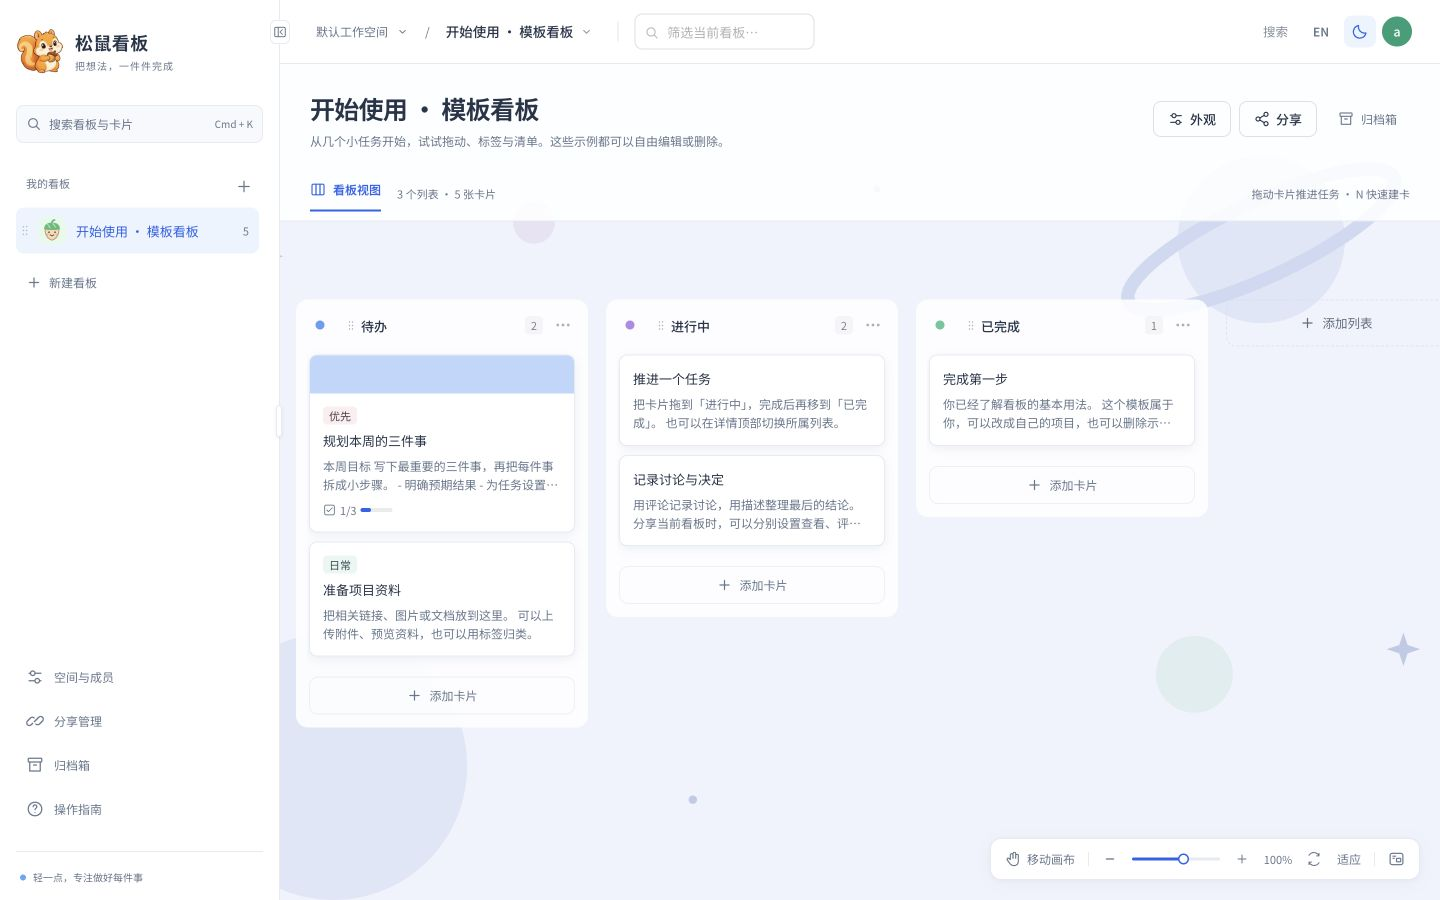
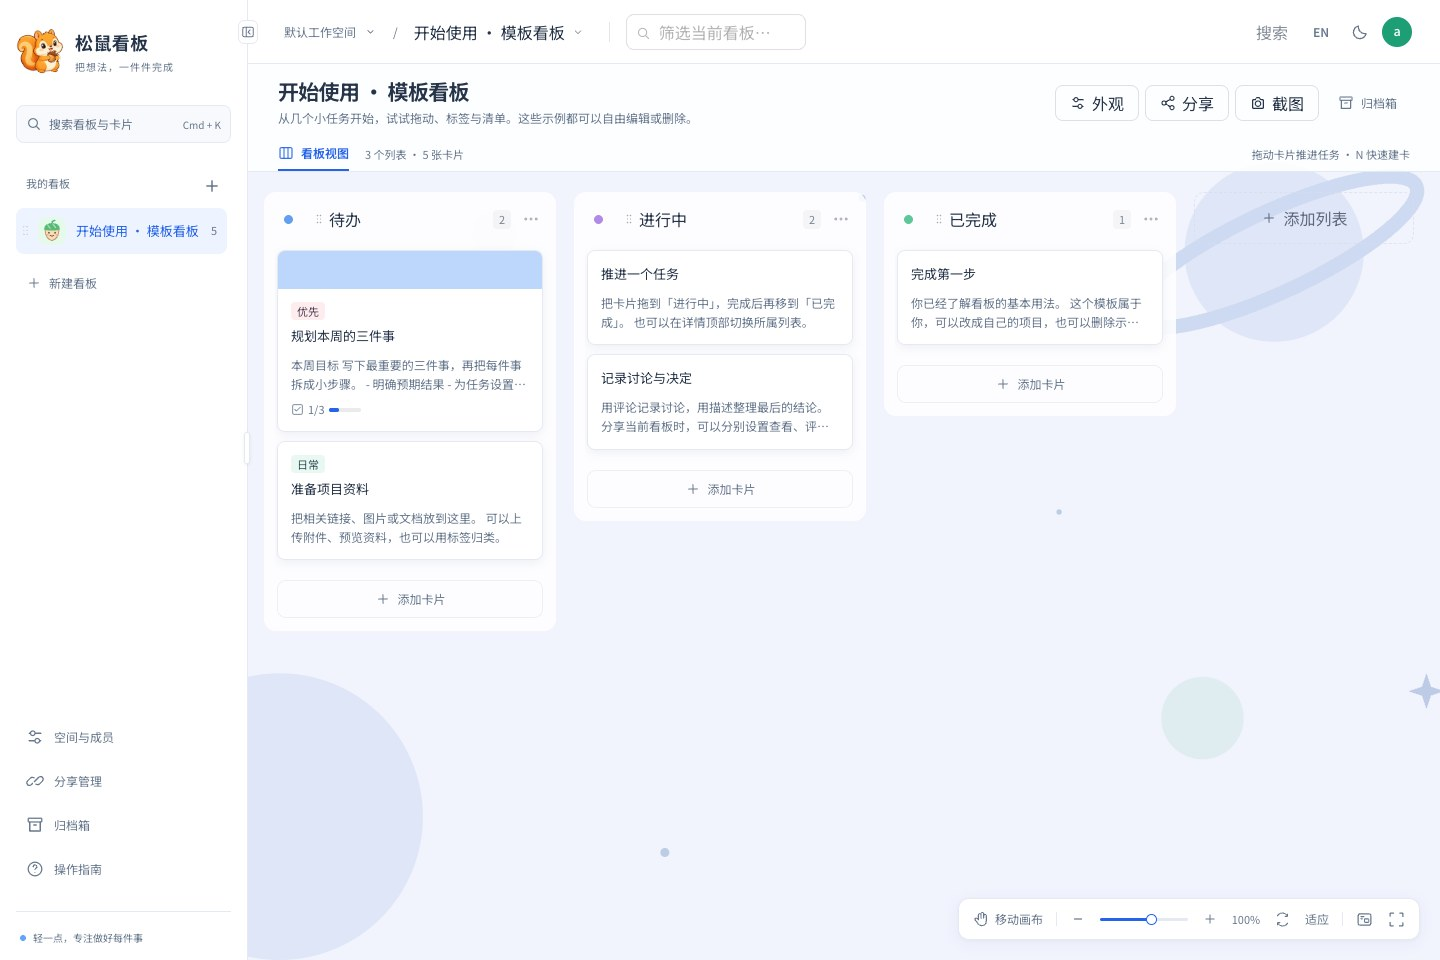
docs: refresh bilingual README screenshots from local starter board

diff --git a/README.en.md b/README.en.md
@@ -15,14 +15,20 @@ Built with React + Vite, Go and SQLite. Production runs through Docker Compose w
 - Comments, attachment previews, downloads, archiving and restoration. Browser previews support images, PDFs, audio, video and text. Office conversion is optional.
 - Independent share management with fixed short links, live content, expiration, revocation and individual collaboration switches. Guests visit one board without signing in.
 - Chinese / English UI and light / dark themes. Initial preferences follow the browser; explicit choices are remembered.
-- Board backgrounds, canvas pan, zoom and fullscreen, minimap, resizable / collapsible sidebar and keyboard shortcuts.
+- Board backgrounds, canvas pan, zoom and fullscreen, minimap, resizable / collapsible sidebar and keyboard shortcuts. Export a full-board screenshot, including off-screen lists and cards.
 - Virtual rendering for large card lists, SSE updates for signed-in accounts, and foreground share checks every 15 seconds. Unchanged boards are not retransmitted.
+
+### Card details
+
+Manage labels, covers, descriptions and editable checklist items in the side drawer.
 
 ![Template card details — description and checklist](docs/screenshots/card-detail-en.jpg)
 
-![Getting started template — dark theme](docs/screenshots/board-dark-zh.jpg)
+### Dark theme
 
-Screenshots use freshly initialized starter templates, with no personal boards or live sharing credentials. A template is created once when the super administrator first signs in; examples can be edited or deleted. User-written content is preserved when switching the UI language.
+![Getting started template — dark theme](docs/screenshots/board-dark-en.jpg)
+
+Screenshots updated on 2026-10-15 show the current local app with the “Getting started” template board, without passwords or sharing credentials. The English screenshots use the English interface while preserving the original Chinese template content. A template is created once when the super administrator first signs in; examples can be edited or deleted.
 
 ## Local development
 
